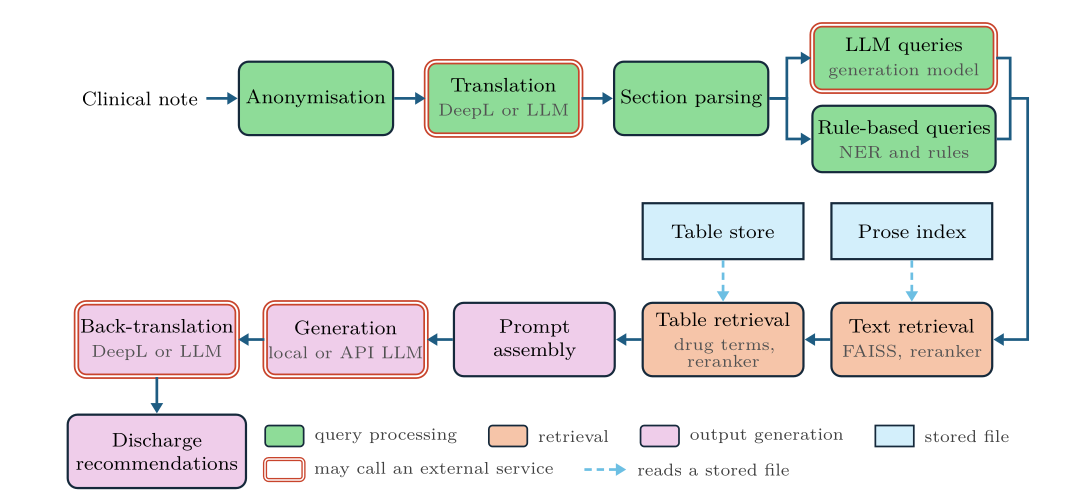
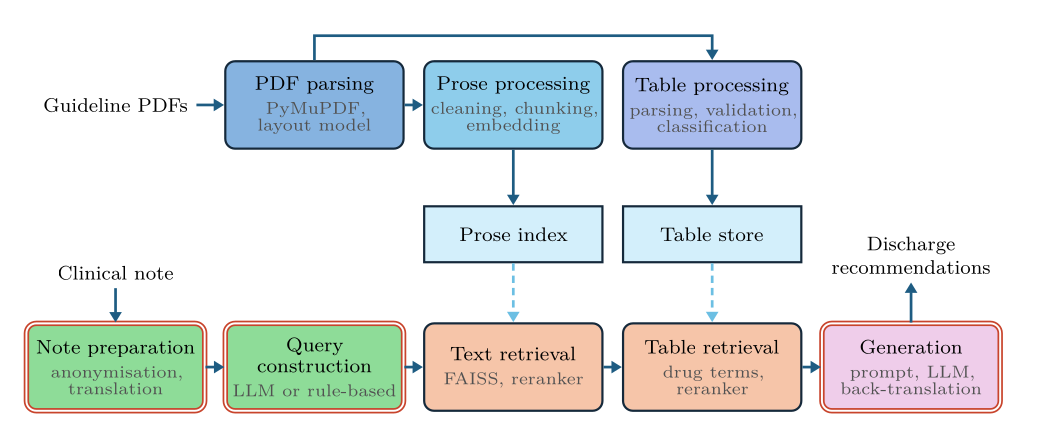
ReadME

diff --git a/README.md b/README.md
@@ -1,8 +1,12 @@
 # ER Discharge Recommendations via RAG
 
-A Retrieval-Augmented Generation pipeline that ingests ER clinical documents (in Italian) and generates guideline-grounded discharge recommendations based on official European guidelines.
+A Retrieval-Augmented Generation pipeline that ingests ER clinical documents or their drafts, in Italian, and generates guideline-grounded discharge recommendations based on official European guidelines.
 
-The system extracts relevant clinical entities from ER notes, retrieves matching guideline passages through a multi-stage retrieval pipeline, and produces structured discharge recommendations via an LLM. Translation between Italian and English is done by the LLM by default, or by DeepL.
+The system is divided into an offline and an online pipeline.
+The former handles text parsing, cleaning and embedding of a PDF Guideline corpus.
+The latter decomposes the input ER note into relevant queries, retrieves matching guideline passages through a multi-stage retrieval pipeline, and produces structured discharge recommendations via an LLM. Translation between Italian and English is done by the LLM by default, or by DeepL.
+
+A procedure to build an exhaustive and authoritative Corpus is also implemented, though users can elect to utilise their own (as long as it consists of PDFs written in English).
 
 The domain vocabulary (Clinical Note, Chunk, Excerpt, Grid Table, ...) is defined in `CONTEXT.md`.
 
@@ -66,16 +70,16 @@ Full installation details: [llama-cpp-python GitHub](https://github.com/abetlen/
 
 All tunable parameters live in **`code/config.py`**, which is thoroughly commented. Key things to set up:
 
-- **OpenRouter API key** — Required with `API = True` (the default): generation, LLM translation and LLM queries go through OpenRouter.
-- **DeepL API key** and glossary id — Only needed when DeepL translates the note (see "Translation" below).
-- **`RETRIEVAL_ONLY`** — `True` stops at the prompt and writes it as the output, without calling the LLM. Set it to `False` to generate the recommendations.
+- **OpenRouter API key**: Required with `API = True` (the default): generation, LLM translation and LLM queries go through OpenRouter.
+- **DeepL API key** and glossary id: Only needed when DeepL translates the note (see "Translation" below).
+- **`RETRIEVAL_ONLY`**: `True` stops at the prompt and writes it as the output, without calling the LLM. Set it to `False` to generate the recommendations.
 - Model paths, retrieval parameters, and generation settings can all be adjusted from this file.
 
 ### 3. Prepare the guidelines (only needed to rebuild the index)
 
 If you already have a built `Weights/` folder (FAISS index, table store, vectorizer), you can skip this step. 
 
-If you want to **rebuild the index** with new or updated guidelines:
+If you want to rebuild the index with new or updated guidelines:
 
 1. Create a `Guidelines/` folder in the project root.
 2. Place your guideline PDFs inside it, or let the scraper build the corpus from PubMed
@@ -106,12 +110,12 @@ the prompt, ready for copy-paste into an external LLM. `./launch.sh` starts the 
 python code/main.py
 ```
 
-> The notes in the Example folder serve only as examples and are not realistic. Notes used for during development and testing are not shared due to data protection agreements.
+> The notes in the provided Examples folder serve only as reference and are not realistic. Notes used for during development and testing are not shared due to data protection agreements.
 
 ### Run on a single clinical note
 
 ```bash
-python code/main.py <folder/filename\>
+python code/main.py <folder/filename>
 ```
 
 > Accepts both txt and PDF files, though the former do not undergo the anonymisation process.
@@ -126,7 +130,7 @@ Set in `code/config.py`:
 
 ## Results
 
-The `Examples/` folder contains sample results including original Italian clinical notes, their English translations, and the generated discharge recommendations — useful for understanding what the pipeline produces without running it yourself.
+The `Examples/` folder contains sample results including machine-generated Italian clinical notes, their English translations, and the generated discharge recommendations. Useful for understanding what the pipeline produces without running it yourself.
 
 
 ## Requirements
